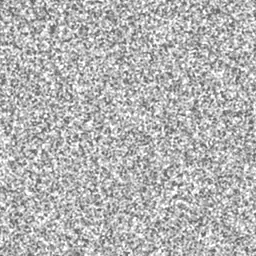
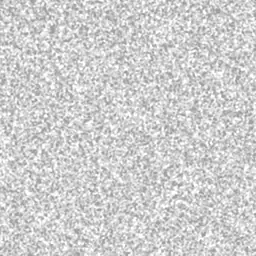
fix(landing): tune the d-object forms against their references
Softer grain tile, closer undocked satellite offsets, a larger stacked turn
card on a sky-graded plate, roomier punch cards, a radial S3 dot field in the
page-end window, three-cell braille frames, and the new fonts preloaded (the
static fallback no longer pulls Geist).

diff --git a/apps/landing/src/shared/styles/d-object.css b/apps/landing/src/shared/styles/d-object.css
@@ -147,7 +147,7 @@ html:has(.d-shell) {
   border-radius: inherit;
   background: var(--d-grain) 0 0 / 256px 256px;
   mix-blend-mode: multiply;
-  opacity: 0.16;
+  opacity: 0.14;
   pointer-events: none;
 }
 
@@ -366,10 +366,10 @@ html:has(.d-shell) {
   will-change: transform;
 }
 
-.d-sat.s1 { left: 236px; top: 64px; --dock-x: -146px; --dock-y: -40px; }
-.d-sat.s2 { left: 700px; top: 104px; --dock-x: 156px; --dock-y: -58px; }
-.d-sat.s3 { left: 246px; top: 214px; --dock-x: -132px; --dock-y: 66px; }
-.d-sat.s4 { left: 690px; top: 250px; --dock-x: 142px; --dock-y: 54px; }
+.d-sat.s1 { left: 236px; top: 64px; --dock-x: -92px; --dock-y: -26px; }
+.d-sat.s2 { left: 700px; top: 104px; --dock-x: 100px; --dock-y: -38px; }
+.d-sat.s3 { left: 238px; top: 220px; --dock-x: -86px; --dock-y: 42px; }
+.d-sat.s4 { left: 698px; top: 252px; --dock-x: 92px; --dock-y: 34px; }
 
 .d-stage[data-dock="out"] .d-sat {
   transform: translate(var(--dock-x), var(--dock-y));
@@ -439,7 +439,9 @@ html:has(.d-shell) {
   background: var(--d-ink);
   color: #ecebe6;
   font: 400 14px/36px var(--font-mono);
+  letter-spacing: -0.08em;
   text-align: center;
+  white-space: nowrap;
 }
 
 .d-tile.live {
@@ -483,22 +485,25 @@ html:has(.d-shell) {
 }
 
 .d-plate-mist {
-  height: 520px;
-  background: linear-gradient(165deg, var(--d-mist-a) 0%, var(--d-mist-b) 100%);
+  height: 540px;
+  background:
+    radial-gradient(70% 55% at 50% 0%, rgb(255 255 255 / 0.55) 0%, rgb(255 255 255 / 0) 70%),
+    radial-gradient(60% 50% at 85% 100%, oklch(0.84 0.024 240 / 0.7) 0%, transparent 70%),
+    linear-gradient(170deg, var(--d-mist-a) 0%, var(--d-mist-b) 100%);
 }
 
 .d-stack {
   position: absolute;
   left: 50%;
-  top: 92px;
-  width: 520px;
-  margin-left: -260px;
+  top: 96px;
+  width: 680px;
+  margin-left: -340px;
 }
 
 .d-stack-card {
   position: relative;
   z-index: 2;
-  padding: 24px 28px 26px;
+  padding: 28px 32px 28px;
   border-radius: 18px;
   background: rgb(255 255 255 / 0.94);
   box-shadow: var(--d-shadow-paper);
@@ -511,8 +516,8 @@ html:has(.d-shell) {
   bottom: -12px;
   height: 60px;
   border-radius: 18px;
-  background: rgb(255 255 255 / 0.72);
-  box-shadow: 0 0 0 1px rgb(22 24 21 / 0.04);
+  background: rgb(255 255 255 / 0.78);
+  box-shadow: 0 0 0 1px rgb(22 24 21 / 0.05), 0 10px 24px -14px rgb(21 23 20 / 0.3);
   z-index: 1;
 }
 
@@ -520,7 +525,7 @@ html:has(.d-shell) {
   left: 34px;
   right: 34px;
   bottom: -24px;
-  background: rgb(255 255 255 / 0.5);
+  background: rgb(255 255 255 / 0.56);
   z-index: 0;
 }
 
@@ -531,7 +536,7 @@ html:has(.d-shell) {
 }
 
 .d-stack-label {
-  font: 500 18px/1.2 var(--font-sans);
+  font: 500 20px/1.2 var(--font-sans);
   letter-spacing: -0.012em;
 }
 
@@ -541,7 +546,7 @@ html:has(.d-shell) {
 }
 
 .d-stack-track {
-  margin: 22px 0 20px;
+  margin: 26px 0 22px;
   display: flex;
   align-items: center;
   gap: 14px;
@@ -552,8 +557,8 @@ html:has(.d-shell) {
   align-items: center;
   justify-content: center;
   flex: none;
-  width: 44px;
-  height: 44px;
+  width: 48px;
+  height: 48px;
   border-radius: 50%;
   background: #f1f0ed;
 }
@@ -567,7 +572,7 @@ html:has(.d-shell) {
 .d-stack-rail {
   position: relative;
   flex: 1;
-  height: 40px;
+  height: 44px;
   border-radius: 999px;
   background: #ecebe8;
 }
@@ -743,7 +748,9 @@ html:has(.d-shell) {
 .d-pc summary {
   display: flex;
   justify-content: space-between;
+  align-items: center;
   gap: 16px;
+  min-height: 96px;
   padding: 26px 34px 26px 30px;
   cursor: pointer;
   list-style: none;
@@ -921,7 +928,7 @@ html:has(.d-shell) {
   mask: url("/brand/outline/portal-mask.svg") 0 0 / 100% 100% no-repeat;
   background-color: #fff;
   background-image:
-    linear-gradient(#fff 8%, rgb(255 255 255 / 0) 88%),
+    radial-gradient(78% 100% at 50% 100%, rgb(255 255 255 / 0) 0%, rgb(255 255 255 / 0) 30%, #fff 96%),
     radial-gradient(rgb(22 24 21 / 0.55) 1px, transparent 1.3px);
   background-size:
     100% 100%,

diff --git a/apps/landing/index.html b/apps/landing/index.html
@@ -9,7 +9,7 @@
       content="mosoo is an open-source Agent runtime for app backends. Run OpenAI Codex, Claude Agent SDK, OpenCode, and Pi behind one API, with a sandbox per Session."
     />
     <meta name="robots" content="index, follow, max-image-preview:large" />
-    <meta name="theme-color" content="#f7f6f1" />
+    <meta name="theme-color" content="#e1dfdb" />
     <link rel="canonical" href="https://mosoo.ai/en" />
     <link rel="alternate" hreflang="en" href="https://mosoo.ai/en" />
     <link rel="alternate" hreflang="zh-CN" href="https://mosoo.ai/zh" />
@@ -17,18 +17,11 @@
     <link rel="alternate" hreflang="x-default" href="https://mosoo.ai/en" />
     <link rel="icon" href="/favicon.ico" sizes="64x64" />
     <link rel="icon" type="image/svg+xml" href="/favicon.svg" />
-    <!-- The hero H1 is set in the display face (Literata), which the browser only finds once React renders it. Fetch
-         it with the page so the headline does not reflow (and shift the hero) when the font arrives late on slow networks.
-         The same goes for Geist, the text face: the hero lead and buttons are set in it, and in Chinese and Japanese
-         a lead that wraps only at phrase edges can lose a line when Geist replaces the system font. -->
-    <link
-      rel="preload"
-      href="/fonts/Literata-Variable-latin.woff2"
-      as="font"
-      type="font/woff2"
-      crossorigin
-    />
-    <link rel="preload" href="/fonts/Geist-Variable.woff2" as="font" type="font/woff2" crossorigin />
+    <!-- The hero H1 is set in the display face (Hedvig Letters Serif, the --font-display stand-in) and the lead and
+         buttons in Inter; React only asks for them once it renders. Fetch both with the page so the headline does not
+         reflow when they arrive late on slow networks. -->
+    <link rel="preload" href="/fonts/HedvigLettersSerif-Regular-latin.woff2" as="font" type="font/woff2" crossorigin />
+    <link rel="preload" href="/fonts/Inter-Variable-latin.woff2" as="font" type="font/woff2" crossorigin />
 
     <meta property="og:type" content="website" />
     <meta property="og:site_name" content="mosoo" />

diff --git a/apps/landing/src/routes/login/landing/landing.tsx b/apps/landing/src/routes/login/landing/landing.tsx
@@ -83,11 +83,17 @@ function Hero(): ReactElement {
   );
 }
 
-const GLYPH_FRAMES = [
+// Ploy's braille tiles: eight frames per tile, each frame a row of three
+// cells read off the same cycle at offsets 0 / 3 / 6. Tile states follow the
+// console's pending / running / completed (thread-state-icon.tsx).
+const GLYPH_CYCLES = [
   ["⣾", "⣽", "⣻", "⢿", "⡿", "⣟", "⣯", "⣷"],
   ["⠁", "⠂", "⠄", "⡀", "⢀", "⠠", "⠐", "⠈"],
   [" ", "⠄", "⠤", "⠦", "⠶", "⠷", "⠿", "⠷"],
 ];
+const GLYPH_FRAMES = GLYPH_CYCLES.map((cycle) =>
+  cycle.map((_, k) => `${cycle[k]}${cycle[(k + 3) % 8]}${cycle[(k + 6) % 8]}`),
+);
 
 function Verbs(): ReactElement {
   return (
@@ -207,7 +213,7 @@ function FaqSection(): ReactElement {
             <summary>
               <Corners className="d-pc-c" />
               <span className="d-pc-q">{item.q}</span>
-              <span className="d-pc-n">
+              <span aria-hidden="true" className="d-pc-n">
                 <FaqIndicator />
                 {String(index + 1).padStart(2, "0")}
               </span>
